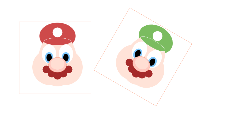
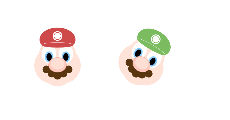
Preparing to merge

diff --git a/sketch.js b/sketch.js
@@ -14,6 +14,7 @@ var blush_color = "#f9ab90";
 var hat_color_green = "#7bbc60";
 var hat_color_red = "#ce4a4a";
 var eye_color = "#83cbff";
+var stache_color = "#593510"
 
 function setup() {
     // create the drawing canvas, save the canvas element
@@ -24,9 +25,9 @@ function setup() {
 
     // rotation in degrees
     angleMode(DEGREES);
-    skin_tone_highlght = c = color('rgba(255, 227, 216, 0.8)');
-}
 
+    skin_tone_highlght = color('rgba(255, 227, 216, 0.8)');
+}
 
 function draw() {
     // background color
@@ -38,7 +39,6 @@ function draw() {
     head(hat_color_green, 2.5 * 960 / 4, 500 / 2, 30);
 }
 
-
 function head(hatCol, xoff, yoff, rot) { //(color, xOffset, yOffset, rotation)
 
     push();
@@ -47,34 +47,33 @@ function head(hatCol, xoff, yoff, rot) { //(color, xOffset, yOffset, rotation)
     rotate(rot);
 
     //hat base
-    stroke(hatCol);
+    noStroke();
     fill(hatCol);
-    ellipse(0, -100, 150, 110);
+    ellipse(0, -85, 150, 100);
 
     //face
-    noStroke();
     fill(skin_tone);
     ellipse(0, 0, 160, 220);
-    ellipse(-30,30, 150, 150);
-    ellipse(30,30, 150, 150);
+    ellipse(-22, 23, 150, 150); //cheeks
+    ellipse(22, 23, 150, 150);
+    fill(hatCol);
+    ellipse(0, -83, 150, 60); // hat mask
 
+    moustache_6(140, 45, 15, 14);
 
-    // draw two eyes
+    //eyes
     fill("white");
     ellipse(-35, -25, 60, 80);
     ellipse(35, -25, 60, 80);
 
-    //set fill back to foreground for eyeballs
+    //puils
     noStroke();
     fill(eye_color);
-    ellipse(-35, -10, 35, 45);
-    ellipse(35, -10, 35, 45);
+    ellipse(-35, -13, 35, 45);
+    ellipse(35, -13, 35, 45);
     fill("black");
-    ellipse(-35, -10, 22, 32);
-    ellipse(35, -10, 22, 32);
-
-    //moustache
-    moustache_6(140, 45, 15, 14);
+    ellipse(-35, -13, 22, 32);
+    ellipse(35, -13, 22, 32);
 
     //nose
     stroke(blush_color);
@@ -84,23 +83,20 @@ function head(hatCol, xoff, yoff, rot) { //(color, xOffset, yOffset, rotation)
     fill(skin_tone_highlght);
     ellipse(0,16,58,48);
 
-    //hat brim
-    noStroke();
-    fill(hatCol);
-    ellipse(0, -92, 115, 40);
-    stroke(bg_color);
-    ellipse(0, -77, 115, 30);
+    // logo
     fill("white");
-    ellipse(0, -115, 40, 40);
+    ellipse(0, -100, 40, 40); 
+    stroke(hatCol);
+    strokeWeight(2.5);
+    ellipse(0, -100, 30, 30); 
+    strokeWeight(1.1); 
 
-    //bounding box
-    fill(255, 0);
-    stroke(blush_color);
-    rect(-160, -160, 300, 300);
+    //hat brim
+    fill(hatCol);
+    stroke(bg_color);
+    ellipse(0, -62, 135, 22);
 
     pop();
-
-
 }
 
 function moustache_6(wid, yOff, bush, slant) { //moustache is a series of O's arranged in a curve
@@ -129,7 +125,7 @@ push();
                 break;
         }
         //draw a dot
-        fill("brown");
+        fill(stache_color);
         noStroke();
         ellipse(x * wid / 6, y + yOff, b * wid / 60);
 
@@ -138,7 +134,10 @@ pop();
 }
 
 
-function moustache_2() {}
+function moustache_2() { // black 2-segmented moustache for luigi
+
+
+}
 
 function keyTyped() {
     if (key == '!') {

diff --git a/README.md b/README.md
@@ -1,11 +1,9 @@
 ## PS1 MDDN 342 2017
 
-This README should be updated as the code changes. Replace
-this placeholder text and use this
-README as a design journal to record your process.
-Be sure to use complete sentences,
-and you can reference your sketch which will appear above.
-The explanation should be short but complete, roughly 100 words.
+To test the omniscience of nintendo's lawyers, I decided to make my recognisable faces to be those of the original Game Boys: Mario and Luigi.
+Simplicity was the name of the game in this sketch; Mario's original sprite was designed to hide his hair and mouth to make him easier to animate, So I deigned to keep those hidden. I used only ellipses to make the faces to keep the shapes organic looking while remaining simple.
 
-Also update both images keeping their original sizes:
+I have a distinct moustache planned for our greenest and least favorite  brother, as luigi has a stache with two segments as opposed to mario's 5-segmented caterpillar.
+
+
 preview.jpg (960x500) and thumbnail.png (230x120).
